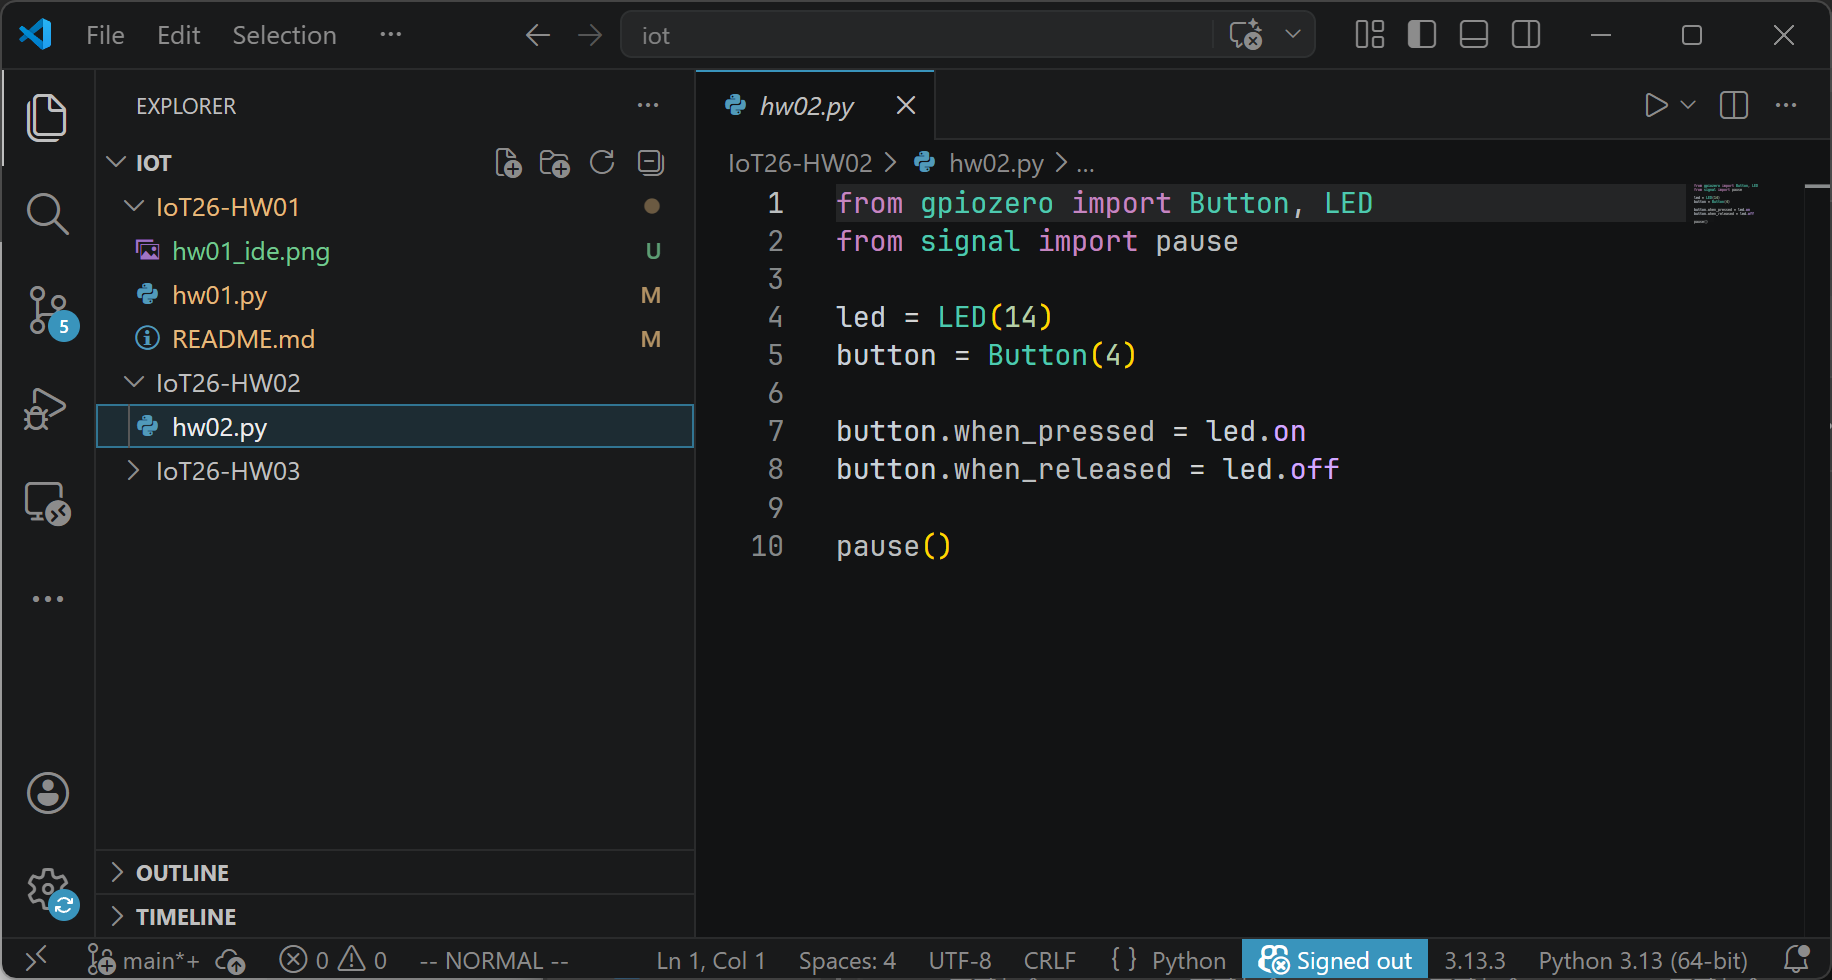
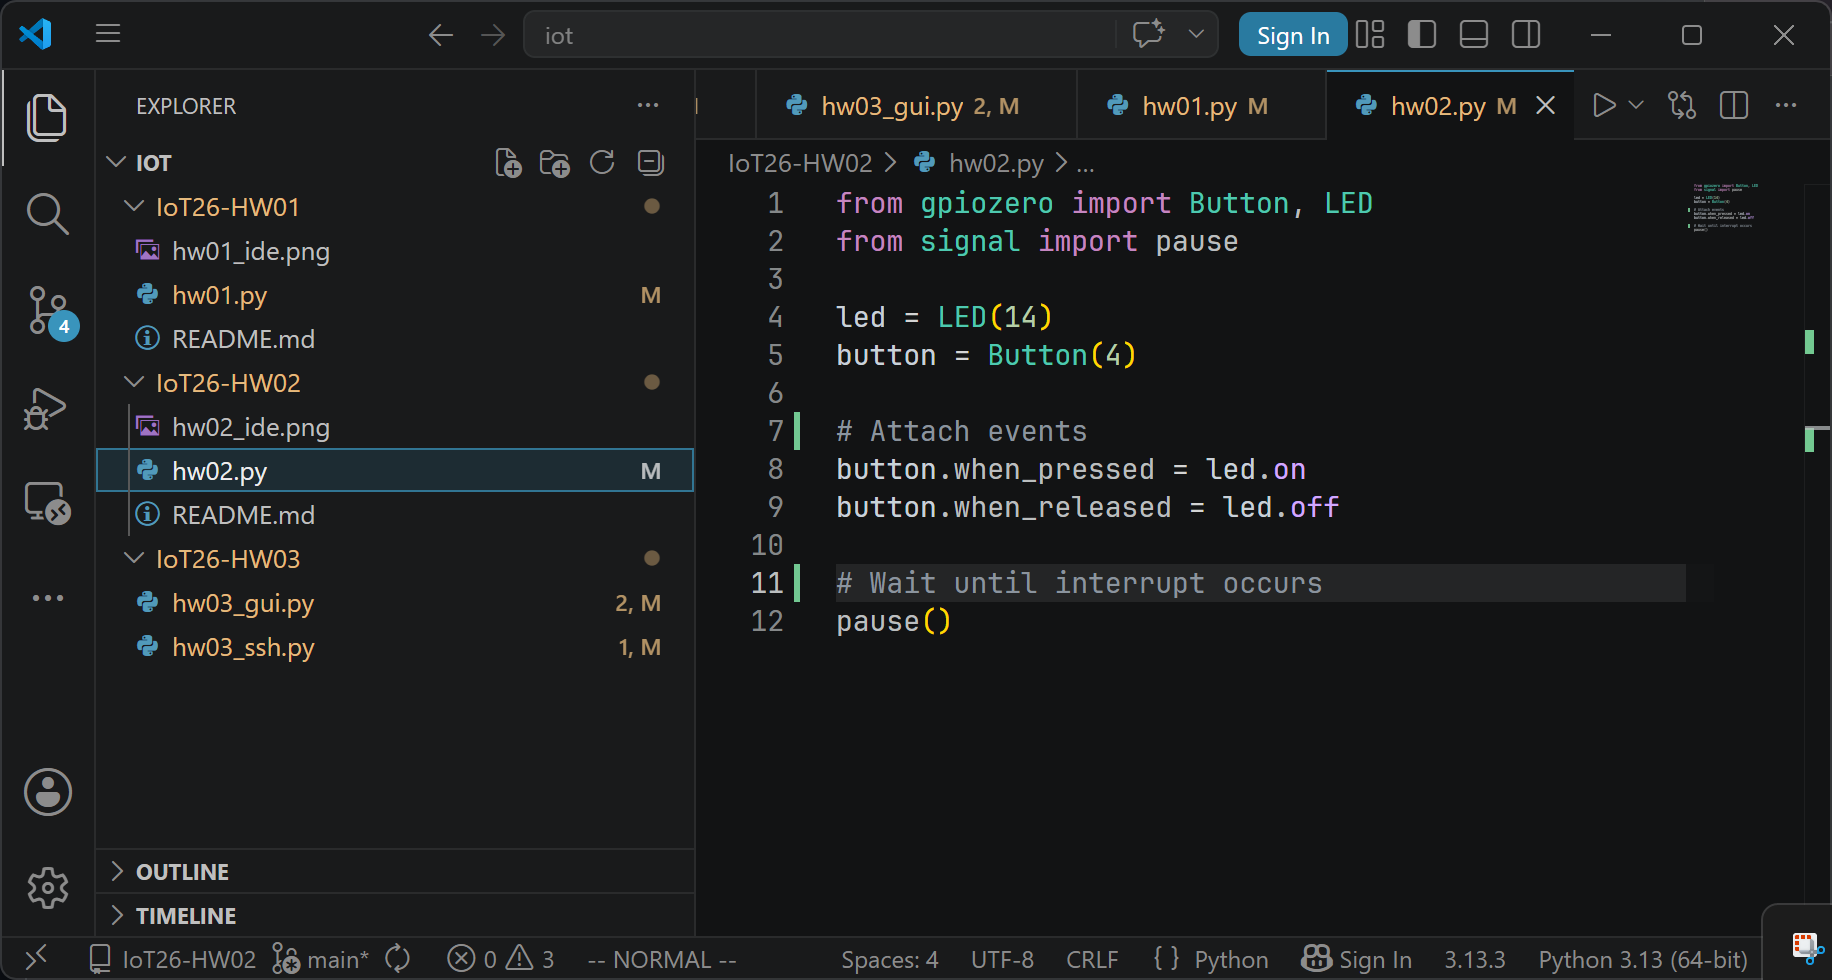
add comment and change image

diff --git a/hw02.py b/hw02.py
@@ -4,7 +4,9 @@ from signal import pause
 led = LED(14)
 button = Button(4)
 
+# Attach events
 button.when_pressed = led.on
 button.when_released = led.off
 
+# Wait until interrupt occurs
 pause()